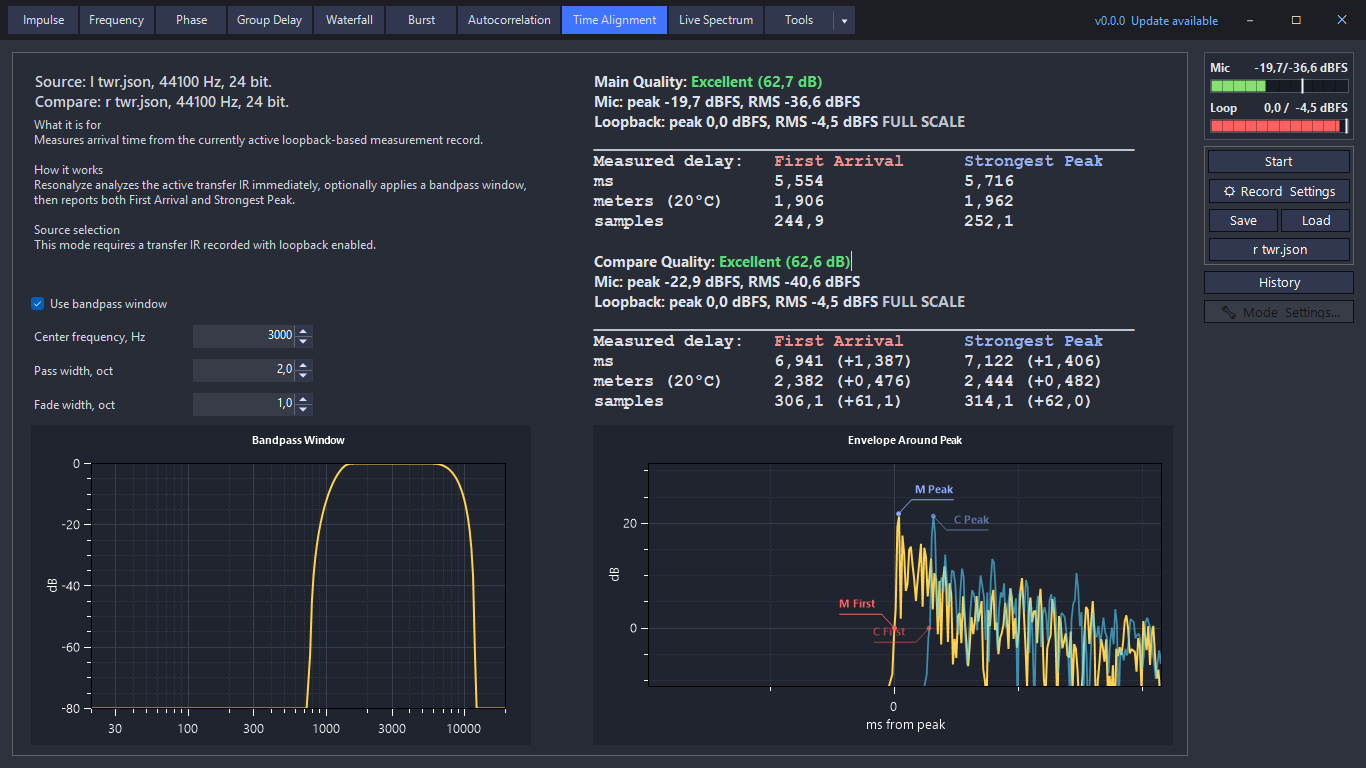
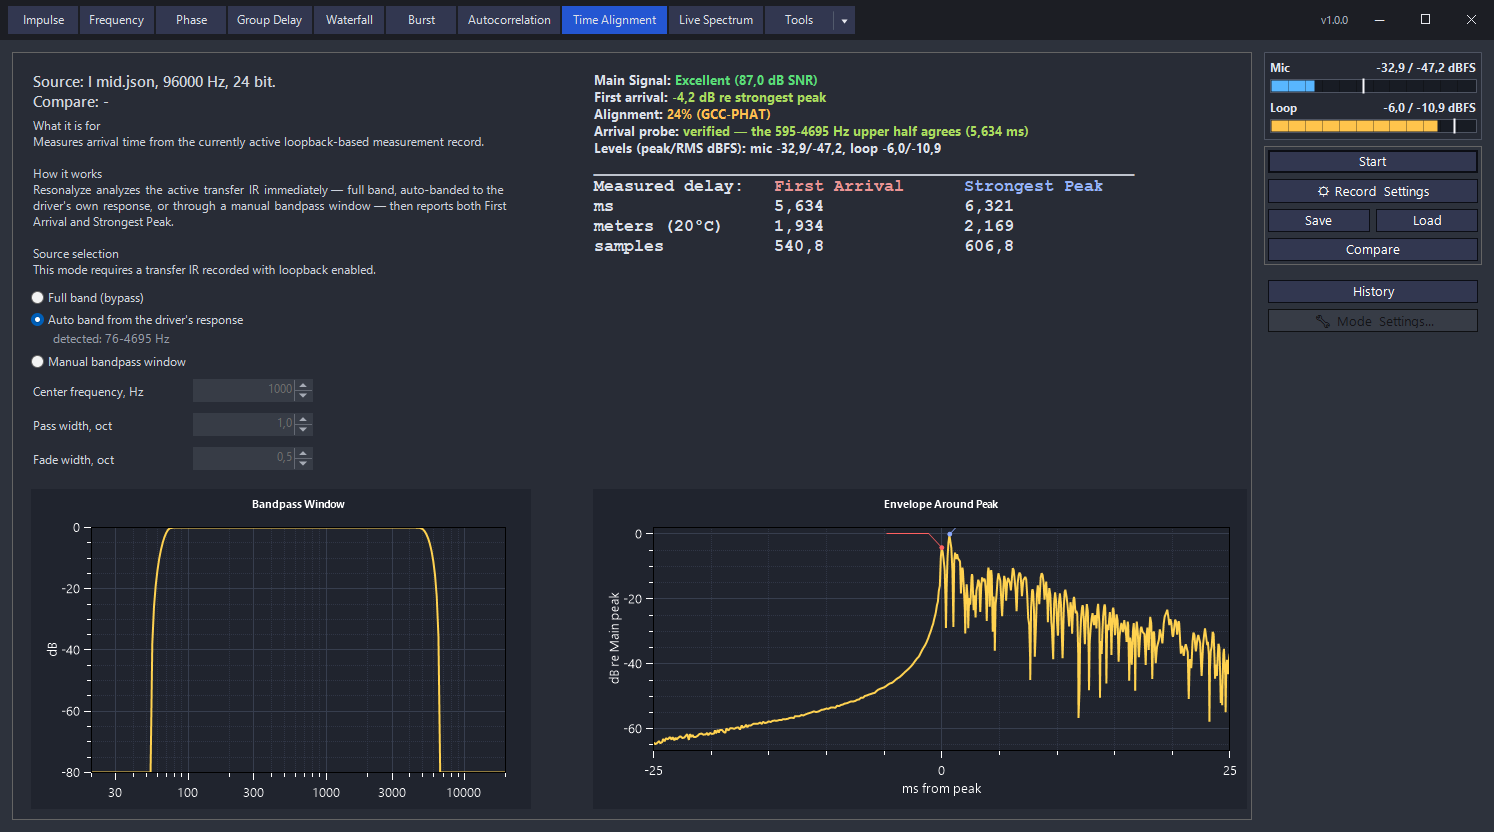
Re-shoot the stale screenshots, and make every screenshot a PNG
Audited all sixteen figures against the current build by comparing each one's
CONTROLS with a fresh render of the same panel, rather than by file date.

Stale, re-shot from the current build:

- fr, phase — the magnitude and phase settings panels gained Window mode and FDW
  cycles; phase's gate button was also renamed Fit to Auto.
- waterfall, burst — both predate the Tools tab entirely, and show the old tab
  order, no Compare button and no overlay slot list.
- time-alignment — the single "Use bandpass window" checkbox became three radios
  (full band / auto band from the driver's response / manual), and the verdict
  block gained First arrival, Alignment and Arrival probe lines.
- visual_dsp — no MMM buttons, no Hybrid toggle, no DSP processor button.
- calc_overlay — the calculated-overlay editor since gained Tilt, Pivot
  frequency, Slope, Time Offset and Inv. Phase.
- target_overlay — still showed a "To EQ Wizard" button that no longer exists.

Current in their controls, re-shot anyway so they are native PNGs of this build
rather than transcoded JPEGs: gd, impulse.

Two could not be re-shot here and are transcoded unchanged. compare is a composed
before/after crop of two different tunes, and noise needs a LIVE capture through
real hardware — it is also the one figure still stale, missing the MMM mode radio
that Live Spectrum gained, so it wants a re-capture on the owner's rig.

Verified current and left alone: eq_wizard, eq_wizard_phase,
[…]

diff --git a/README.md b/README.md
@@ -70,7 +70,7 @@ fabricating a number when the measurement cannot support one.
 </p>
 
 <p align="center">
-  <img src="assets/images/compare.jpg" alt="Sum loss per crossover junction: manual tune vs one automatic pass">
+  <img src="assets/images/compare.png" alt="Sum loss per crossover junction: manual tune vs one automatic pass">
 </p>
 
 <p align="center">
@@ -229,12 +229,12 @@ Virtual DSP, the EQ Wizard, and Time Alignment are shown in the
 <table>
   <tr>
     <td width="50%">
-      <img src="assets/images/fr.jpg" alt="Frequency response plot">
+      <img src="assets/images/fr.png" alt="Frequency response plot">
       <p><strong>Frequency Response</strong> — smoothing, calibration, an optional
       dB SPL scale, distortion curves, overlays, targets, and coherence.</p>
     </td>
     <td width="50%">
-      <img src="assets/images/noise.jpg" alt="Live Spectrum plot">
+      <img src="assets/images/noise.png" alt="Live Spectrum plot">
       <p><strong>Live Spectrum</strong> — a loopback transfer function with
       coherence and peak hold, or a reference-free RTA in dB SPL, on selectable
       excitation noise.</p>
@@ -242,13 +242,13 @@ Virtual DSP, the EQ Wizard, and Time Alignment are shown in the
   </tr>
   <tr>
     <td width="50%">
-      <img src="assets/images/impulse.jpg" alt="Impulse response plot">
+      <img src="assets/images/impulse.png" alt="Impulse response plot">
       <p><strong>Impulse Response</strong> — impulse, envelope (ETC) and step on
       one timeline, save it as readable JSON, and reuse it across analysis modes
       without re-measuring.</p>
     </td>
     <td width="50%">
-      <img src="assets/images/gd.jpg" alt="Group delay plot">
+      <img src="assets/images/gd.png" alt="Group delay plot">
       <p><strong>Group Delay</strong> — timing from the transfer IR, with a
       millisecond gate, gate offset, and a live impulse-window preview.</p>
     </td>
@@ -258,10 +258,10 @@ Virtual DSP, the EQ Wizard, and Time Alignment are shown in the
 <details>
 <summary><strong>More plots</strong> — waterfall, phase, Burst Decay, overlays</summary>
 
-![Waterfall plot](assets/images/waterfall.jpg)
-![Phase response plot](assets/images/phase.jpg)
-![Burst Decay plot](assets/images/burst.jpg)
-![Calculated overlay settings](assets/images/calc_overlay.jpg)
+![Waterfall plot](assets/images/waterfall.png)
+![Phase response plot](assets/images/phase.png)
+![Burst Decay plot](assets/images/burst.png)
+![Calculated overlay settings](assets/images/calc_overlay.png)
 
 </details>
 

diff --git a/REFERENCE.md b/REFERENCE.md
@@ -787,8 +787,8 @@ dialog refuses to save it. A live-curve operand counts as whatever the plot is
 showing right now. The tilt and amplitude-space math likewise apply only where
 decibels do — both grey out while the operands are a coherence trace.
 
-![Ordinary overlay](assets/images/regular_overlay.jpg)
-![Calculated overlay](assets/images/calc_overlay.jpg)
+![Ordinary overlay](assets/images/regular_overlay.png)
+![Calculated overlay](assets/images/calc_overlay.png)
 
 Captured overlay settings cover a name, line color, thickness, style and opacity,
 optional `1/48` … `1/3` octave smoothing, and a **Clear** action for that slot
@@ -833,7 +833,7 @@ flat to 2 kHz, then ≈-3 dB/oct. The deviation curve is **Deviation**
 dial into an equalizer), or **None**. Target overlays are available in Frequency
 Response and Live Spectrum.
 
-![Target overlay settings](assets/images/target_overlay.jpg)
+![Target overlay settings](assets/images/target_overlay.png)
 
 ### Import and export
 

diff --git a/MANUAL.md b/MANUAL.md
@@ -503,7 +503,7 @@ Another very useful view is **Group Delay**. Open its settings panel to choose w
 curves are displayed and adjust the IR gate and smoothing if necessary. Pay particular
 attention to **Excess Group Delay**.
 
-![Group Delay with the excess curve and coherence shown](assets/images/gd.jpg)
+![Group Delay: the measured curve against its minimum-phase and excess twins, with coherence](assets/images/gd.png)
 
 Excess Group Delay shows where the measured response departs from the minimum-phase
 behavior implied by its magnitude response. Strong anomalies can be caused by
